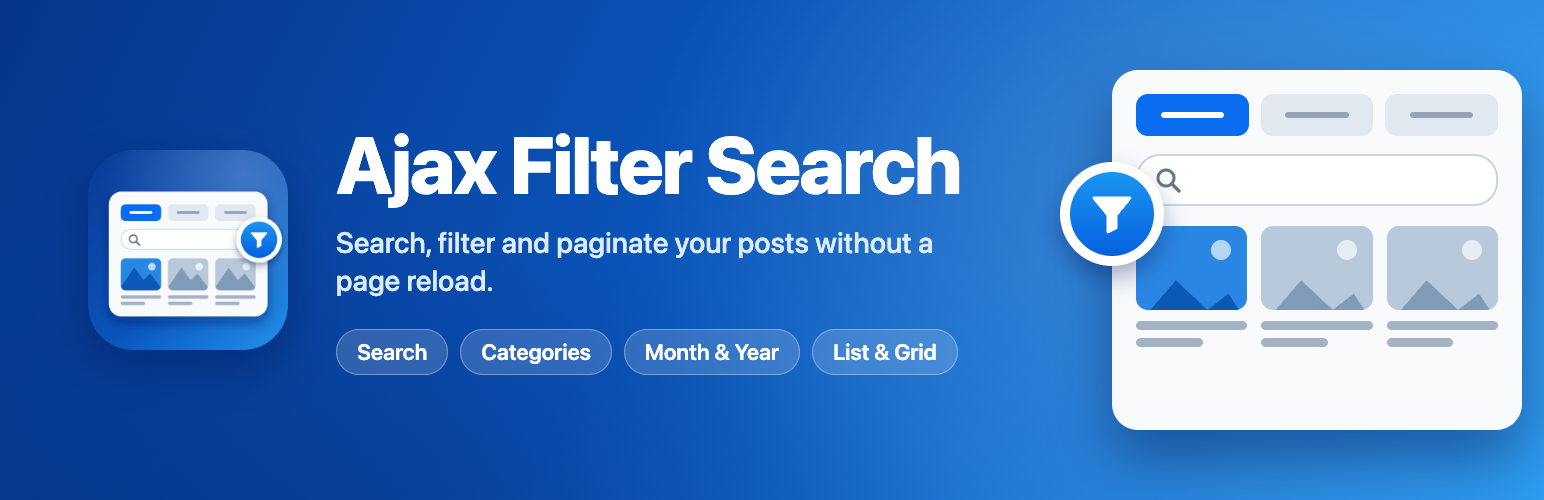
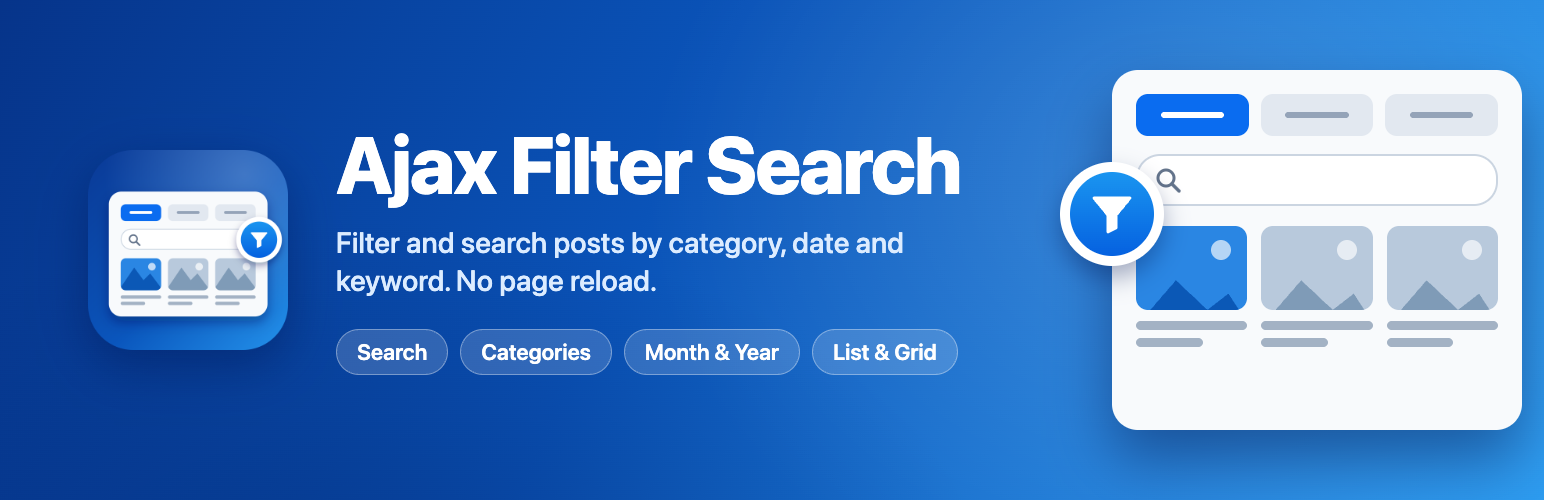
Release 2.2.1: clearer plugin title, description and tags for search

Changed region(s): [[0.2176, 0.45, 0.6218, 0.51], [0.2176, 0.54, 0.4352, 0.6]]

diff --git a/design/banner.html b/design/banner.html
@@ -36,7 +36,7 @@
 <img class="icon" src="icon-master.png" alt="">
 <div class="copy">
   <h1>Ajax Filter Search</h1>
-  <p>Search, filter and paginate your posts without a page reload.</p>
+  <p>Filter and search posts by category, date and keyword. No page reload.</p>
   <div class="chips"><span class="chip">Search</span><span class="chip">Categories</span><span class="chip">Month &amp; Year</span><span class="chip">List &amp; Grid</span></div>
 </div>
 <div class="panel">

diff --git a/ajax-filter-search.php b/ajax-filter-search.php
@@ -1,9 +1,9 @@
 <?php
 /**
- * Plugin Name:       Ajax Filter Search
+ * Plugin Name:       Ajax Filter Search: Filter Posts by Category, Date & Keyword
  * Plugin URI:        https://streetcarpro.com
- * Description:       Displays posts or custom post types in a friendly, filterable format using ajax.
- * Version:           2.2.0
+ * Description:       Let visitors filter and search posts or custom post types by category, month, year and keyword, with no page reload. Shortcode and block, no setup code.
+ * Version:           2.2.1
  * Requires at least: 6.0
  * Requires PHP:      7.4
  * Author:            Thomas Dintrone
@@ -19,7 +19,7 @@
 
 defined( 'ABSPATH' ) || exit;
 
-define( 'AFS_VERSION', '2.2.0' );
+define( 'AFS_VERSION', '2.2.1' );
 define( 'AFS_URL', 'https://streetcarpro.com' );
 
 // Options and slugs. Kept identical to 1.x so saved settings carry over.

diff --git a/blocks/feed/editor.asset.php b/blocks/feed/editor.asset.php
@@ -11,5 +11,5 @@ return array(
 		'wp-i18n',
 		'wp-server-side-render',
 	),
-	'version'      => '2.2.0',
+	'version'      => '2.2.1',
 );

diff --git a/docs/RELEASE-2.2.1.md b/docs/RELEASE-2.2.1.md
@@ -1,0 +1,17 @@
+# Release 2.2.1: checklist
+
+Status: **prepared, not published**. Follows the steps in `RELEASE-2.2.0.md`; publishing to WordPress.org is a separate, approved step.
+
+## What changes
+
+Discoverability only. No code, behavior, settings or output changes.
+
+- Plugin name (header and `readme.txt` title): "Ajax Filter Search: Filter Posts by Category, Date & Keyword". The slug, text domain, `AFS_` prefixes, menu label and block title stay "Ajax Filter Search".
+- Tags: ajax filter, filter posts, live search, category filter, custom post type.
+- Short description and plugin description reworded to say what the plugin does.
+- Banner tagline updated (`design/banner.html`, re-rendered to `.wordpress-org/banner-*.png`).
+- Version 2.2.1, changelog and upgrade notice, `.pot` updated.
+
+## Publish
+
+Same SVN steps as 2.2.0 (trunk, `tags/2.2.1`, and `assets/` for the two banners), then `bin/verify-live-release.sh 2.2.1 2.2.0`. Note that `Name` in the update-check request in that script is still the short name; the endpoint matches on the plugin file, so this is harmless.
